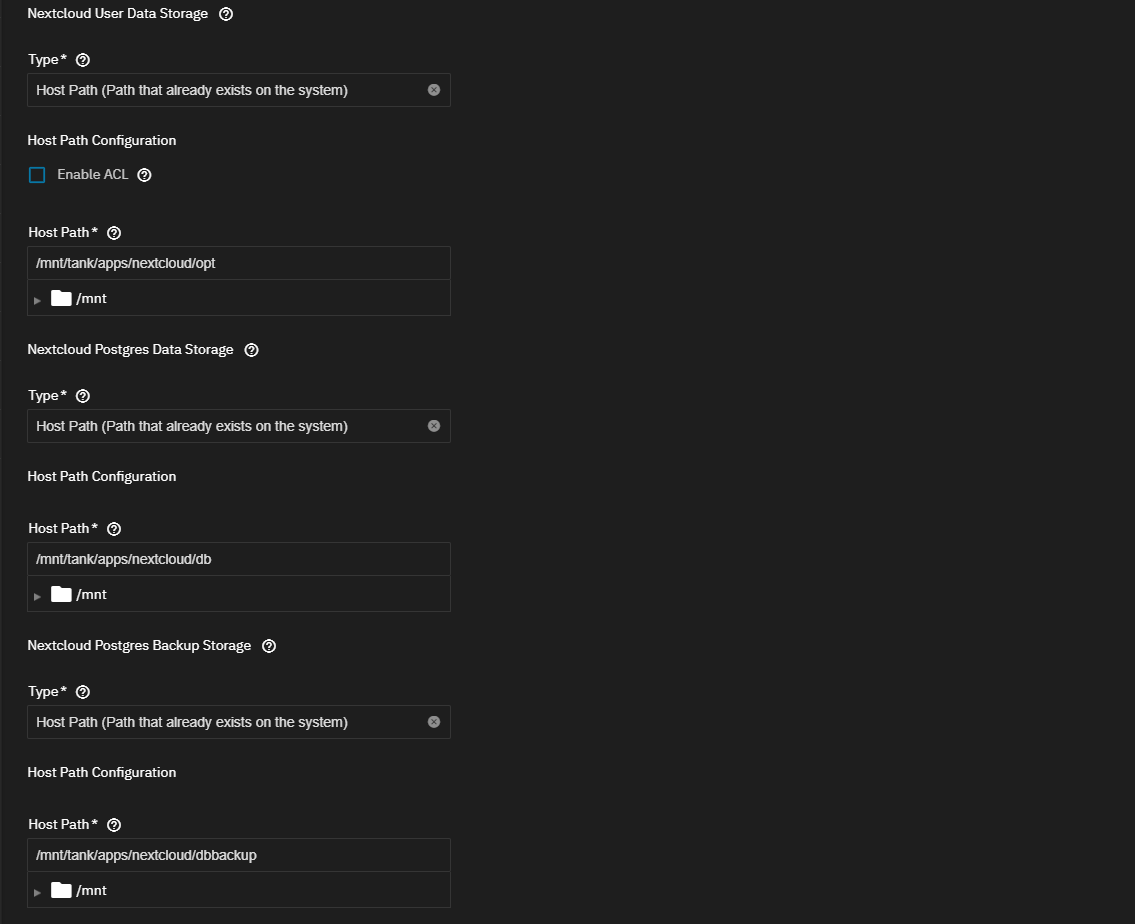
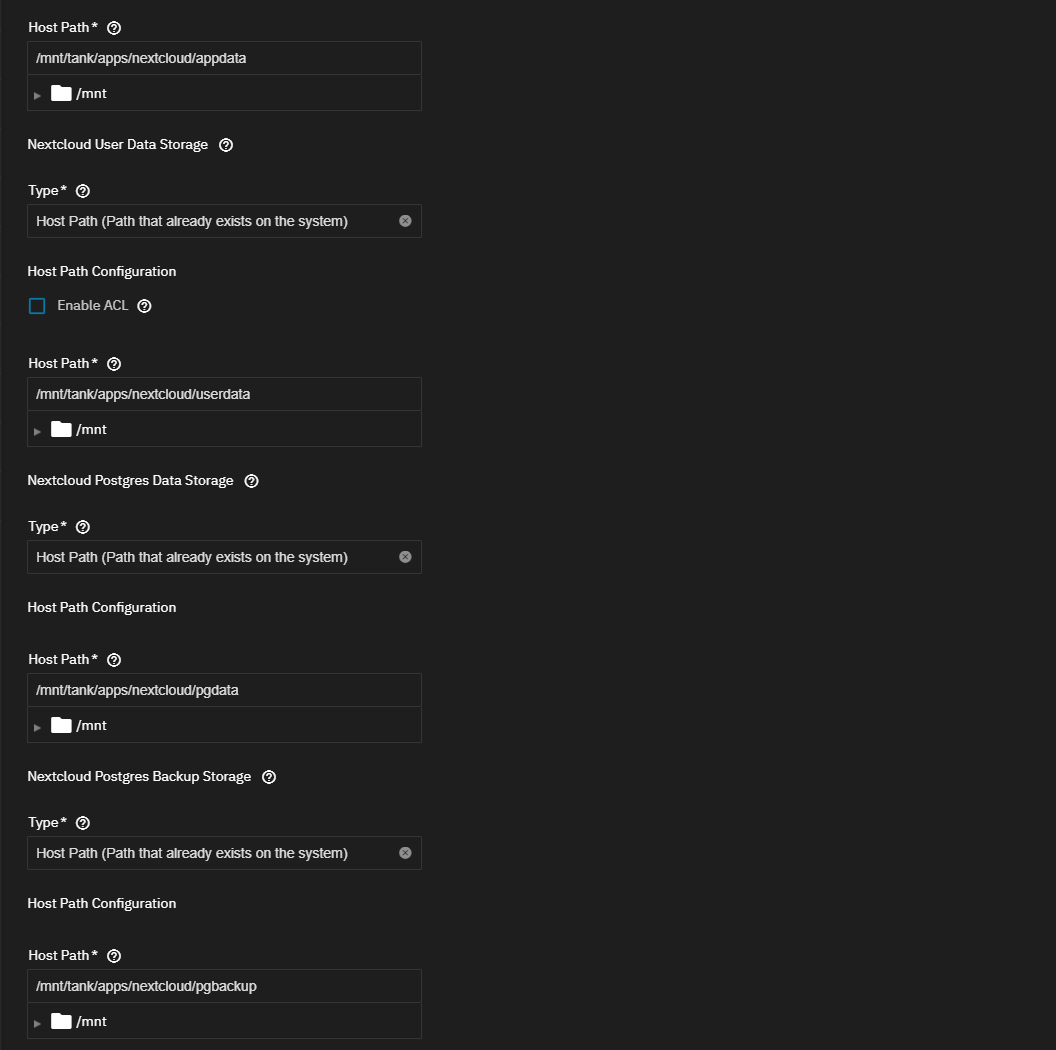
PD-1151 Updated Nextcloud Datasets
This commit updates the Nextcloud datasets names and where each is entered. It updates the screenshots

diff --git a/content/SCALE/SCALETutorials/Apps/CommunityApps/InstallNextCloudMedia.md b/content/SCALE/SCALETutorials/Apps/CommunityApps/InstallNextCloudMedia.md
@@ -42,10 +42,10 @@ In this procedure you:
 Nextcloud needs five datasets. A primary dataset for the application (**nextcloud**) with four child datasets.
 The four child datasets are named and used as follows:
 
-* One for the primary data volume (**data**)
-* One for the postgres data volume (**db**)
-* One for the postgres backup volume (**dbbackup**)
-* One for extra mount path volume (**opt**).
+* **appdata** that contains HTML, apps, custom_themes, config, etc.
+* **userdata** that contains the actual files uploaded by the user
+* **pgdata** that contains the database files.
+* **pgbackup** that contains the database backups
 
 SCALE creates the **ix-applications** dataset in the pool you set as the application pool when you first go to the **Apps** screen.
 This dataset is internally managed, so you cannot use this as the parent when you create the required Nextcloud datasets.
@@ -58,17 +58,15 @@ Click **Advanced Options** to make any other setting changes you want to make, a
 When prompted, select **Return to Pool List**.
 
 Next, select the **nextcloud** dataset, click **Add Dataset** to add the first child dataset.
-Enter **data** in **Name** and select **Apps** as the **Dataset Preset**.
+Enter **appdata** in **Name** and select **Apps** as the **Dataset Preset**.
 Click **Advanced Options** to make any other setting changes you want to make for the dataset, and click **Save**.
 
 Repeat this three more times to add the other three child datasets to the **nextcloud** parent dataset.
-Add one named **db**, the next **dbbackup**, and then finally **opt**.
-
 When finished you should have the **nextcloud** parent dataset with four child datasets under it. Our example paths are:
-* */mnt/tank/nextcloud/data*
-* */mnt/tank/nextcloud/db*
-* */mnt/tank/nextcloud/dbbackup*
-* */mnt/tank/nextcloud/opt*
+* */mnt/tank/nextcloud/appdata*
+* */mnt/tank/nextcloud/userdata*
+* */mnt/tank/nextcloud/pgdata*
+* */mnt/tank/nextcloud/pgbackup*
 
 {{< trueimage src="/images/SCALE/Datasets/AppsAddNextcloudDatasets.png" alt="Add Nextcloud Storage" id="Add Nextcloud Storage" >}}
 
@@ -136,25 +134,23 @@ If the pool for apps is not already set, do it when prompted.
    Do not select **Pre v2 Storage Structure** if you are deploying Nextcloud for the first time as this slows down the installation and is not necessary.
    If you are upgrading where your Nextcloud deployment in SCALE was a 1.x.x release, select this option.
   
-   a. Select **Enable Host Path for Nextcloud Data Volume**, then browse to and select the **nextcloud/data** dataset to populate the **Host Path for Nextcloud Data Volume** field.
+   a. Select **Host Path (Path that already exsits on the system)** in **Type**, then browse to and select the **appdata** dataset to populate the **Host Path** for the **Nextcloud AppData Storage** fields.
 
    {{< trueimage src="/images/SCALE/Apps/InstallNextcloudEnableHostPath.png" alt="Add Nextcloud Storage Host Path" id="Add Nextcloud Storage Host Path" >}}
 
-    Enter or browse to select the path to the **data** dataset created for Nextcloud.
-
     You can set the ACL permissions here by selecting **Enable ACL** but it not necessary. You can also change dataset permissions from the **Datasets** screen using the **Edit** button on the **Permissions** widget for the Nextcloud **Data** dataset.
 
-   b. Click **Add** to display the **Mount Path in Pod** and **Host Path** fields.
-      Enter or browse to select the host path for the **nextcloud/opt** dataset to populate the **Host Path** field, then enter the path in the **Mount Path in Pod** field. This example uses the **/mnt/tank/nextcloud/opt** path.
-
-    {{< trueimage src="/images/SCALE/Apps/InstallNextcloudStorageConfigPostgressHostPaths.png" alt="Add Nextcloud Storage Volumes" id="Add Nextcloud Storage Volumes" >}}
-
-   c. Scroll down to the next storage option for **Nextcloud User Data Storage** and select **Host Path** again.
-      Enter or browse to select the path for the **opt** dataset.
-   
+   b. Select **Host Path (Path that already exsits on the system)** in **Type**, then browse to and select the **userdata** dataset to populate the **Host Path** for the **Nextcloud User Data Storage** fields.
+     
+   c. Scroll down to the **Nextcloud Postgres Data Storage** option.
+      Select **Host Path (Path that already exsits on the system)** in **Type**, then browse to and select the **pgpdata** dataset to populate the **Host Path**.
+    
    d. Scroll down to select the storage for **Nextcloud Postgres Data Storage**, select **Host Path** and then enter or browse to the **nextcloud/db** dataset location.
 
-   e. Scroll down to **Nextcloud Postgres Backup Storage**, select **Host Path**, and then enter or browse to the path for the **dbbackup** dataset.
+   e. Scroll down to **Nextcloud Postgres Backup Storage**, select **Host Path**, and then enter or browse to the path for the **pgbbackup** dataset.
+      When complete, the four datasets for Nextcloud are configured.
+
+    {{< trueimage src="/images/SCALE/Apps/InstallNextcloudStorageConfigPostgressHostPaths.png" alt="Add Nextcloud Storage Volumes" id="Add Nextcloud Storage Volumes" >}}
 
 6. Accept the remaining setting defaults.
 
